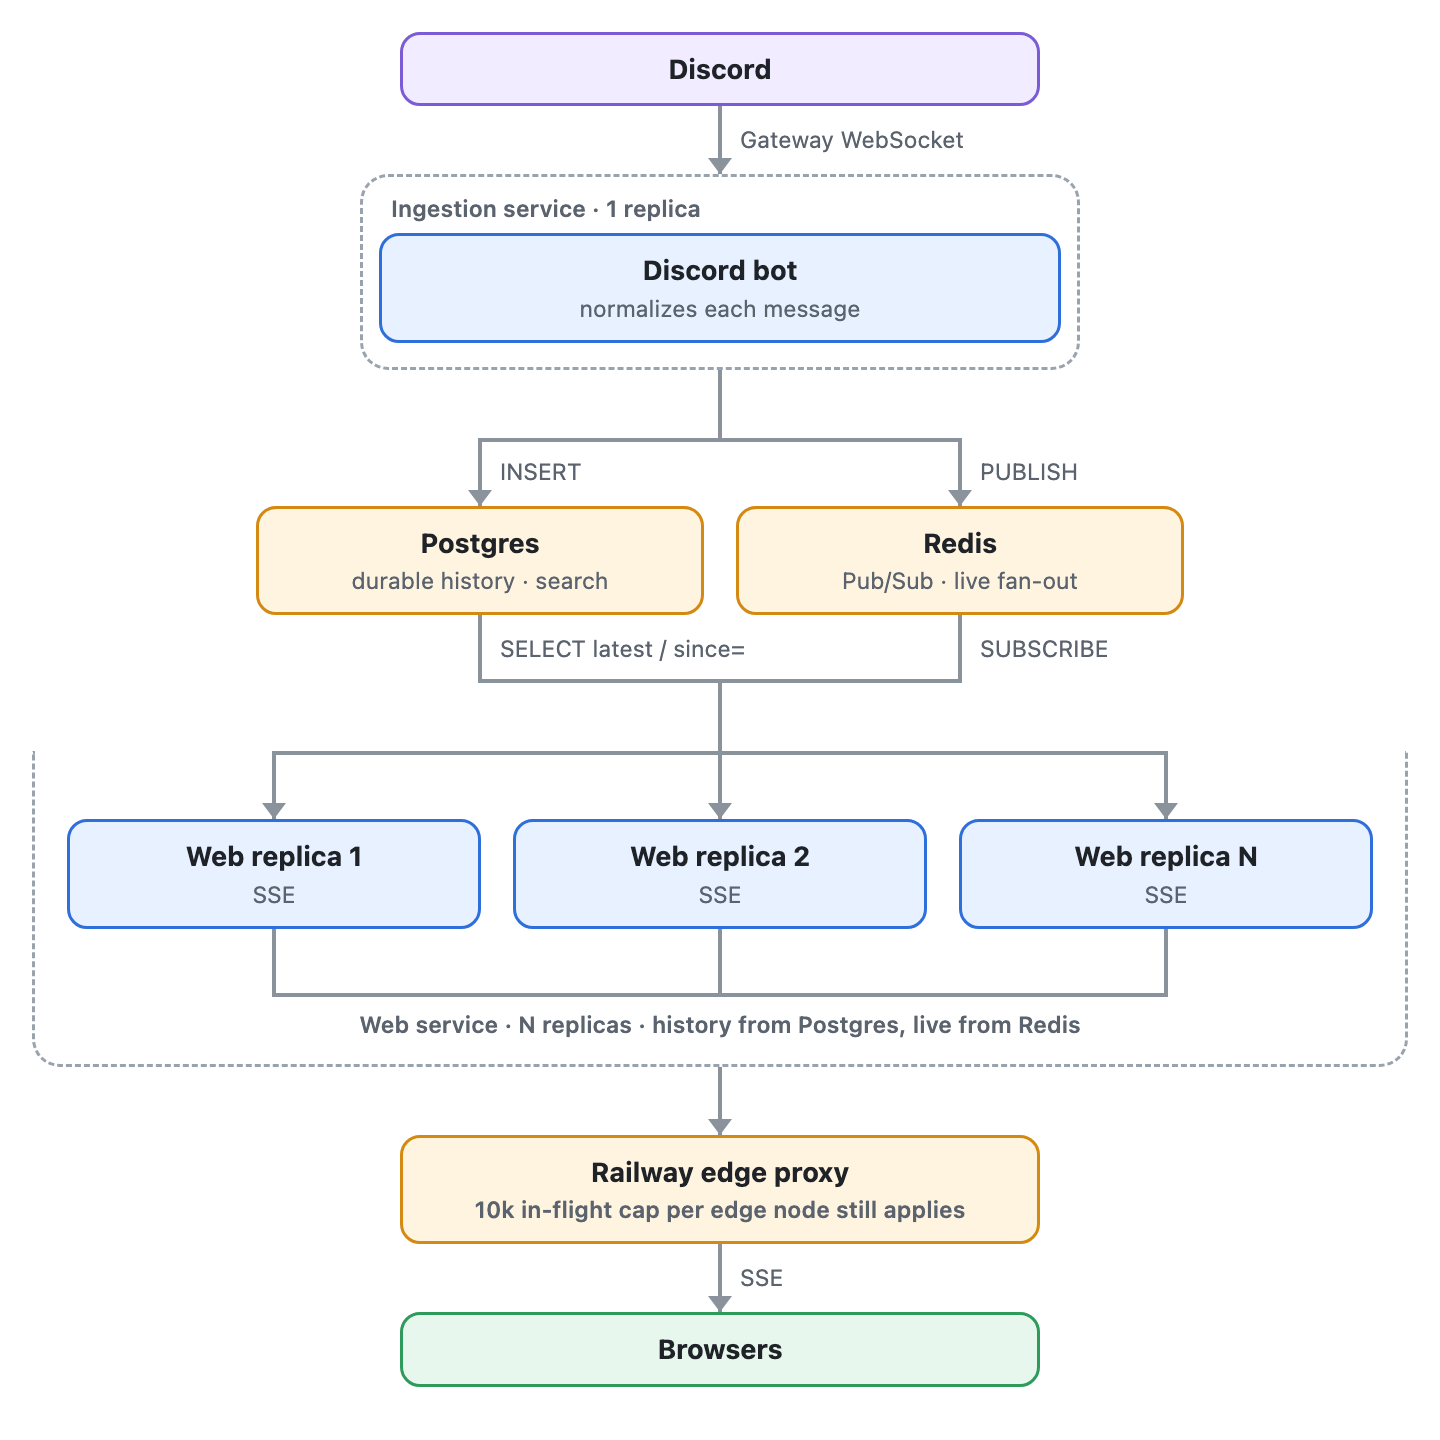
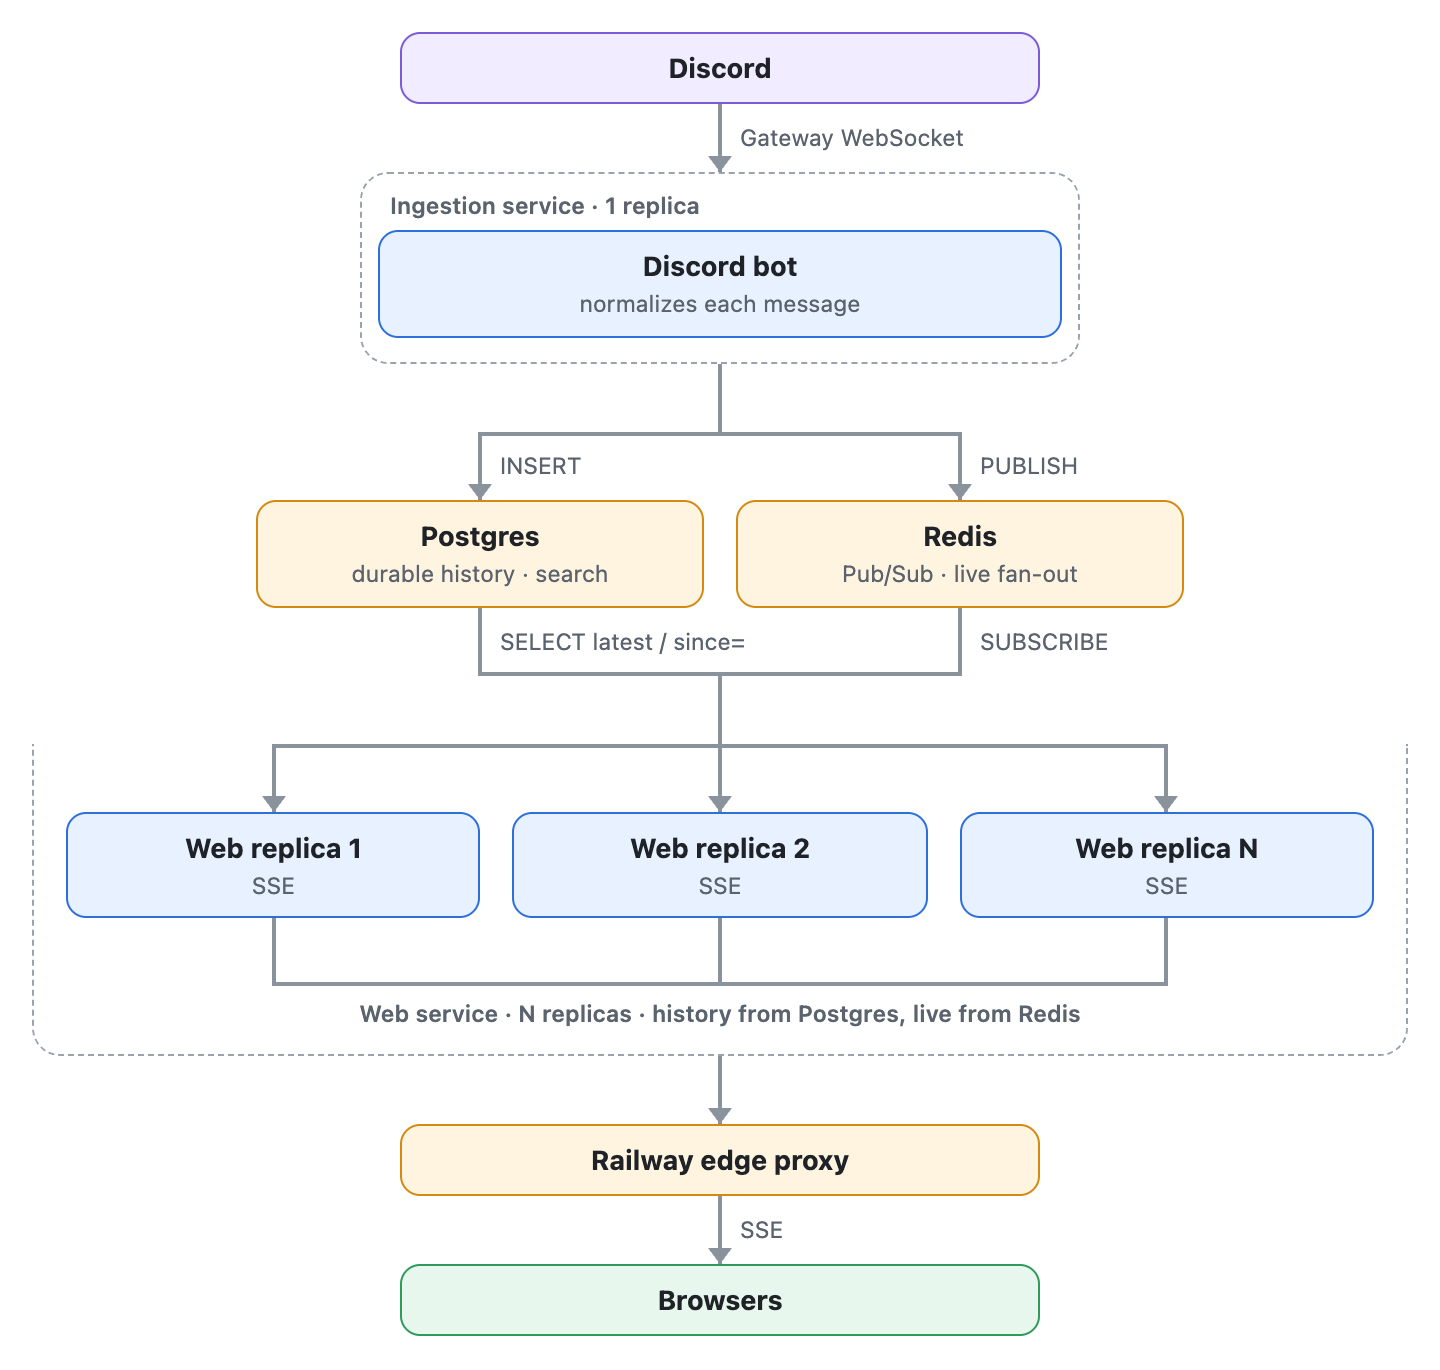
Rename Known Problem 6 to outbound traffic, drop the Alternatives intro, and remove the edge-cap note from both alternative diagrams.

diff --git a/docs/images/alternative-b-postgres-redis.html b/docs/images/alternative-b-postgres-redis.html
@@ -33,7 +33,7 @@
 </div><div class="merge" style="--n:3"><div><div class="v nohead"><span class="ln"></span></div></div><div><div class="v nohead"><span class="ln"></span></div></div><div><div class="v nohead"><span class="ln"></span></div></div></div>
 <div style="text-align:center;font-size:11.5px;font-weight:600;color:var(--muted);margin-top:6px">Web service · N replicas · history from Postgres, live from Redis</div></div>
 <div class="v"><span class="ln"></span></div>
-<div class="n inf center"><b>Railway edge proxy</b><small class="warn">10k in-flight cap per edge node still applies</small></div>
+<div class="n inf center"><b>Railway edge proxy</b></div>
 <div class="v"><span class="ln"></span><span class="lbl">SSE</span></div>
 <div class="n usr center"><b>Browsers</b></div>
 </div></body></html>

diff --git a/docs/images/alternative-a-redis.html b/docs/images/alternative-a-redis.html
@@ -29,7 +29,7 @@
 </div><div class="merge" style="--n:3"><div><div class="v nohead"><span class="ln"></span></div></div><div><div class="v nohead"><span class="ln"></span></div></div><div><div class="v nohead"><span class="ln"></span></div></div></div>
 <div style="text-align:center;font-size:11.5px;font-weight:600;color:var(--muted);margin-top:6px">Web service · N replicas</div></div>
 <div class="v"><span class="ln"></span></div>
-<div class="n inf center"><b>Railway edge proxy</b><small class="warn">10k in-flight cap per edge node still applies across all replicas</small></div>
+<div class="n inf center"><b>Railway edge proxy</b></div>
 <div class="v"><span class="ln"></span><span class="lbl">SSE</span></div>
 <div class="n usr center"><b>Browsers</b></div>
 </div></body></html>

diff --git a/README.md b/README.md
@@ -229,7 +229,7 @@ Failures of the server program itself (the running copy of the app, also called 
 - **Behavior Today**: The connection is cleaned up when a write to it finally fails.
 - **Long Term Fix**: Drop a stream that has not accepted any data for N seconds, or use a shorter TCP keepalive.
 
-#### 6. Bandwidth cost grows with message rate × viewers
+#### 6. Outbound traffic grows with message rate × viewers
 
 - **Problem**: Every message is sent to every viewer, and Railway bills outbound traffic.
 - **Impact**: 10,000 viewers at 5 msg/s, with messages of about 470 bytes, is about 24 MB/s of billed traffic.
@@ -298,8 +298,6 @@ Failures of the server program itself (the running copy of the app, also called 
 
 
 ## Alternatives Considered
-
-Both alternatives solve the same problem: running more than one web replica. In the current design, every extra replica would start its own bot with its own buffer.
 
 ### A. Bot service, Redis Pub/Sub and web replicas
 
